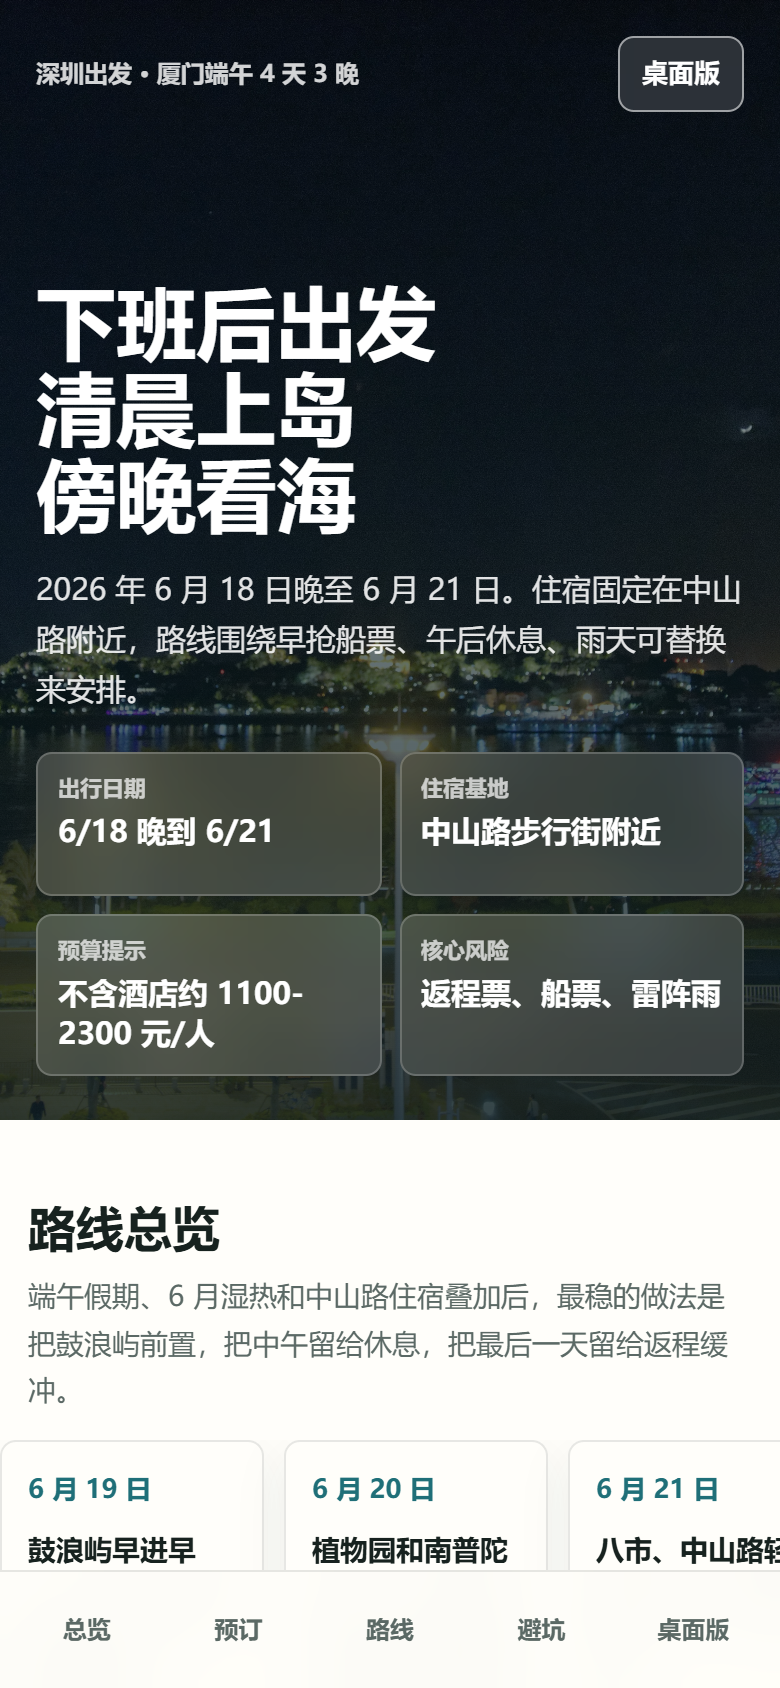
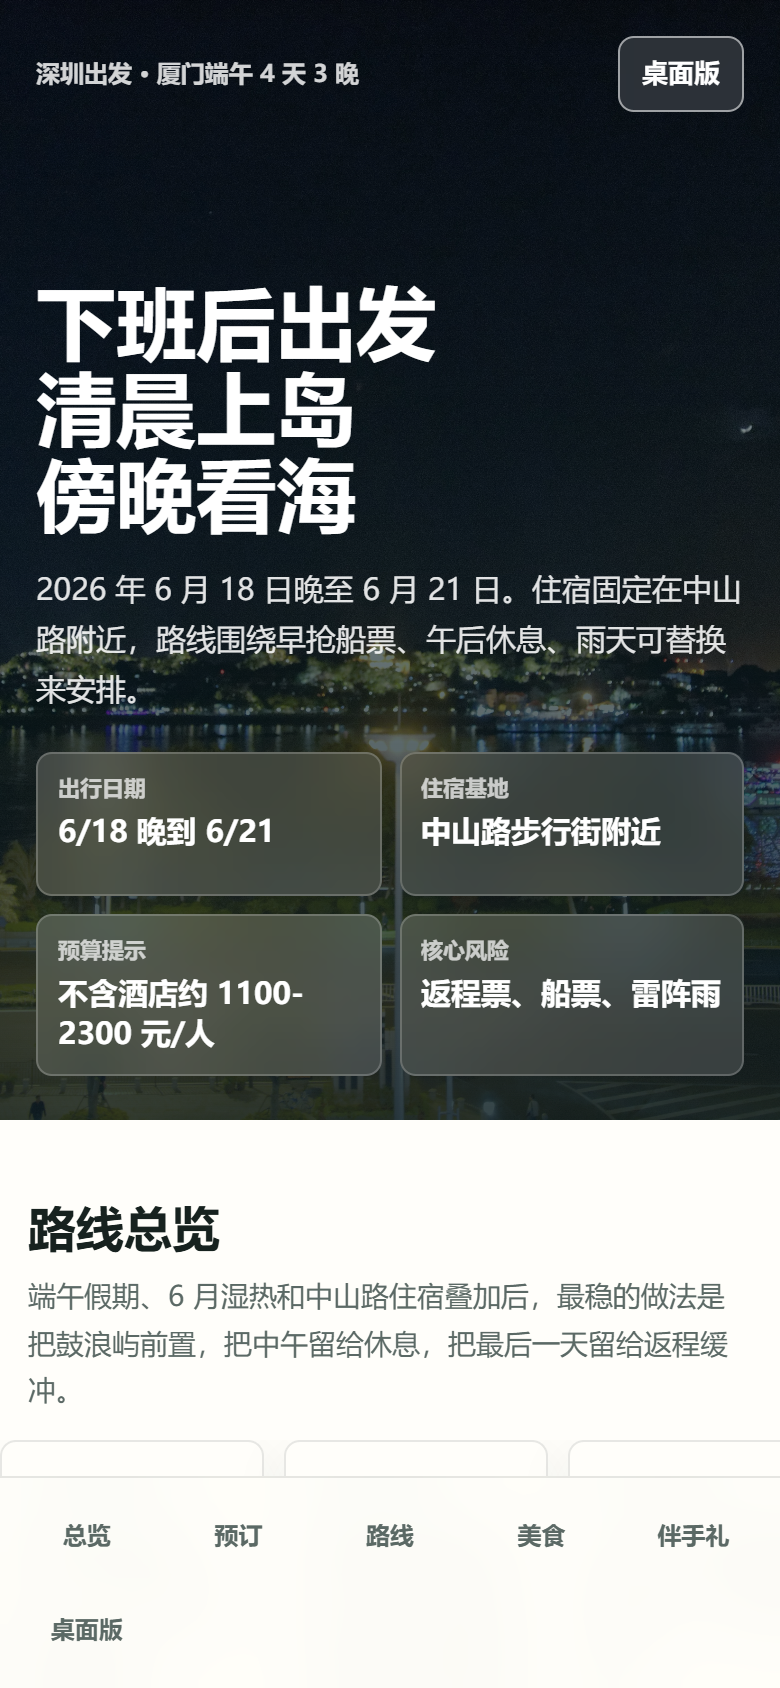
行程优化

diff --git a/xiamen/shenzhen-xiamen-itinerary-mobile.html b/xiamen/shenzhen-xiamen-itinerary-mobile.html
@@ -776,25 +776,66 @@
       </section>
 
       <section id="food">
-        <h2>美食和伴手礼</h2>
-        <p class="lead">策略是“吃品类，不迷信店名”。中山路、八市、沙坡尾、曾厝垵都要避开拉客海鲜、价格不透明和长队网红店。</p>
+        <h2>美食速查</h2>
+        <p class="lead">出门后按“想吃的品类”找店，不按网红店名排队。中山路和八市只进明码店，曾厝垵、沙坡尾只当小食和饮品补充。</p>
         <article class="card coral">
           <h3>每天怎么吃</h3>
           <ul>
-            <li>D1：车站简餐，抵达后不吃重口夜宵。</li>
-            <li>D2：鼓浪屿轻食，中山路或八市晚餐。</li>
-            <li>D3：植物园后吃沙茶面或本地小炒，曾厝垵只吃饮品小食，晚上回老城区。</li>
-            <li>D4：八市早餐，午饭选车站前不赶时间的店。</li>
+            <li>D1：车站简餐，抵达后只补水和轻食，不吃重口夜宵。</li>
+            <li>D2：鼓浪屿上午轻食，晚餐回中山路或八市吃正餐。</li>
+            <li>D3：植物园后吃沙茶面/本地小炒，曾厝垵只买饮品小食。</li>
+            <li>D4：八市早餐加伴手礼，午饭选车站前不赶时间的店。</li>
           </ul>
         </article>
         <article class="card gold">
-          <h3>值得尝试</h3>
-          <p>沙茶面、花生汤、海蛎煎、土笋冻、姜母鸭、同安封肉、五香卷、扁食汤、鼓浪屿馅饼、南普陀素饼。</p>
+          <h3>优先尝试</h3>
+          <ul>
+            <li><strong>主食热菜：</strong>沙茶面、姜母鸭、同安封肉、扁食汤。</li>
+            <li><strong>小吃甜口：</strong>花生汤、海蛎煎、五香卷、土笋冻。</li>
+            <li><strong>海鲜：</strong>想吃可以放八市/老城区晚餐，先确认单价、斤两和加工费。</li>
+          </ul>
+        </article>
+        <article class="card leaf">
+          <h3>现场判断</h3>
+          <ul>
+            <li>菜单没有价格、店员在门口拉客、只推荐“时价海鲜”的店直接跳过。</li>
+            <li>排队超过 20 分钟就换同品类，端午不把时间押给单店。</li>
+            <li>土笋冻、海蛎煎、姜母鸭口味分化大，先点小份或拼桌共享。</li>
+          </ul>
           <div class="tags">
             <span class="tag">明码点单</span>
             <span class="tag">排队超 20 分钟换店</span>
-            <span class="tag">伴手礼 D4 买</span>
+            <span class="tag">海鲜先确认斤两</span>
           </div>
+        </article>
+      </section>
+
+      <section id="gifts">
+        <h2>伴手礼和文创速查</h2>
+        <p class="lead">最后一天上午集中买，避免背着走鼓浪屿和植物园。食品看生产日期、保质期和配料表；文创优先轻、小、不易碎。</p>
+        <article class="card gold">
+          <h3>食品伴手礼</h3>
+          <ul>
+            <li><strong>稳妥分发：</strong>鼓浪屿馅饼、南普陀素饼、花生酥、海苔肉松类小包装。</li>
+            <li><strong>给长辈：</strong>素饼、传统糕点、小罐茶；少买大礼盒，先看重量。</li>
+            <li><strong>自己吃：</strong>馅饼可以买混合口味，但别一次买太多，甜度和油润度差异明显。</li>
+          </ul>
+        </article>
+        <article class="card plum">
+          <h3>文创和非遗</h3>
+          <ul>
+            <li><strong>轻便：</strong>鼓浪屿建筑冰箱贴、明信片、城市散步地图、植物园主题小物。</li>
+            <li><strong>有厦门辨识度：</strong>漆线雕、厦门珠绣相关小件，适合预算更高或送重要对象。</li>
+            <li><strong>购买原则：</strong>问清材质、工艺、是否易碎；贵价手作不在景区冲动下单。</li>
+          </ul>
+        </article>
+        <article class="card blue">
+          <h3>D4 购买路线</h3>
+          <ul>
+            <li>早上：八市/中山路附近先买食品，买完回酒店或寄存点放好。</li>
+            <li>中午前：补买轻文创和冰箱贴，留出 20% 行李空间。</li>
+            <li>返程前：只买能随身带的轻物，不买需冷藏、易漏、易碎的大件。</li>
+          </ul>
         </article>
       </section>
 
@@ -836,6 +877,7 @@
             <li>鼓浪屿 6 月 19 日早班船票已购买。</li>
             <li>酒店地址、电话、入住时间已截图。</li>
             <li>保存离线地图和酒店到厦门北路线。</li>
+            <li>D4 伴手礼清单已列好，行李箱预留 20% 空间。</li>
             <li>晴雨伞、防晒、帽子、速干衣物、备用袜子。</li>
             <li>充电宝、数据线、纸巾、湿巾、肠胃药、创可贴。</li>
             <li>每天早上看天气预警，雷雨就切换室内备选。</li>
@@ -854,6 +896,9 @@
             <li><a href="https://www.xmferry.com/wybm/wshlk/wlgpp/index.htm">厦门轮渡有限公司：游客购票须知</a></li>
             <li><a href="https://xiamenbg.com/Dp/time">厦门市园林植物园：开放时间</a></li>
             <li><a href="https://www.weather.com.cn/cityintro/101230201.shtml">中国天气网：厦门气候背景</a></li>
+            <li><a href="https://lzhbwg.mofcom.gov.cn/">商务部流通发展司：中华老字号信息管理</a></li>
+            <li><a href="https://www.ihchina.cn/Article/Index/detail?id=14363">中国非物质文化遗产网：厦门漆线雕技艺</a></li>
+            <li><a href="https://wlt.fujian.gov.cn/wldt/btdt/202409/P020250624350030178688.pdf">福建省文化和旅游厅：非遗与旅游融合发展推荐目录</a></li>
           </ul>
         </article>
         <article class="card coral">
@@ -863,8 +908,11 @@
             <li>厦门 6月 暴雨 雷阵雨 避坑</li>
             <li>厦门 曾厝垵 沙坡尾 避坑 美食</li>
             <li>厦门 中山路 八市 海鲜 避坑</li>
+            <li>厦门 美食 小吃 避坑 中山路 八市 沙茶面 土笋冻</li>
+            <li>厦门 伴手礼 特产 馅饼 素饼 避坑 礼物</li>
+            <li>厦门 文创 非遗 漆线雕 珠绣 鼓浪屿 礼物</li>
           </ul>
-          <p>复核结论支持早班鼓浪屿、上午植物园、曾厝垵短逛不吃正餐，以及中山路/八市明码点单、不进拉客店。</p>
+          <p>复核结论支持早班鼓浪屿、上午植物园、曾厝垵短逛不吃正餐；美食按品类找店，伴手礼 D4 集中买，食品看日期和配料，文创优先轻便小件。</p>
         </article>
         <article class="card gold">
           <h3>图片授权</h3>
@@ -887,7 +935,8 @@
       <a href="#overview">总览</a>
       <a href="#booking">预订</a>
       <a href="#daily">路线</a>
-      <a href="#pitfalls">避坑</a>
+      <a href="#food">美食</a>
+      <a href="#gifts">伴手礼</a>
       <a href="shenzhen-xiamen-itinerary.html">桌面版</a>
     </div>
   </nav>

diff --git a/xiamen/shenzhen-xiamen-itinerary.html b/xiamen/shenzhen-xiamen-itinerary.html
@@ -903,52 +903,55 @@
 
     <section id="food">
       <h2>美食安排</h2>
-      <p class="section-lead">小红书近期反馈里，中山路、八市、沙坡尾、曾厝垵的争议主要集中在拉客海鲜、价格不透明、网红店排队和期望过高。策略是“吃品类，不迷信店名”。</p>
+      <p class="section-lead">官方和文旅资料可确认厦门有沙茶面、土笋冻、花生汤、馅饼等代表性吃食；小红书近期反馈则提醒中山路、八市、沙坡尾、曾厝垵的争议主要集中在拉客海鲜、价格不透明、网红店排队和期望过高。策略是“吃品类，不迷信店名”。</p>
       <div class="grid cols-2">
         <article class="card accent-coral">
           <h3>每天怎么吃</h3>
           <ul>
-            <li>D1：车站简餐，抵达后不吃重口夜宵。</li>
-            <li>D2：鼓浪屿上午轻食，中山路/八市晚餐。</li>
-            <li>D3：植物园后吃沙茶面或本地小炒，曾厝垵只吃饮品小食，晚上回老城区正餐。</li>
-            <li>D4：八市早餐，午饭选车站前不赶时间的店。</li>
+            <li>D1：车站简餐，抵达后只补水和轻食，不吃重口夜宵。</li>
+            <li>D2：鼓浪屿上午轻食，晚餐回中山路或八市吃正餐。</li>
+            <li>D3：植物园后吃沙茶面或本地小炒，曾厝垵只买饮品小食，晚上回老城区正餐。</li>
+            <li>D4：八市早餐加伴手礼，午饭选车站前不赶时间的店。</li>
           </ul>
         </article>
         <article class="card accent-gold">
-          <h3>值得尝试的品类</h3>
+          <h3>优先尝试的品类</h3>
           <ul>
-            <li>沙茶面、花生汤、海蛎煎、土笋冻。</li>
-            <li>姜母鸭、同安封肉、五香卷、扁食汤。</li>
-            <li>鼓浪屿馅饼、南普陀素饼、黄则和类传统点心。</li>
-            <li>海鲜可以吃，但只选明码称重和评价稳定的店。</li>
+            <li><strong>主食热菜：</strong>沙茶面、姜母鸭、同安封肉、扁食汤。</li>
+            <li><strong>小吃甜口：</strong>花生汤、海蛎煎、五香卷、土笋冻。</li>
+            <li><strong>食品伴手礼：</strong>鼓浪屿馅饼、南普陀素饼、花生酥、海苔肉松类小包装。</li>
+            <li><strong>海鲜：</strong>可以吃，但只选明码称重和评价稳定的店。</li>
           </ul>
         </article>
       </div>
       <div class="note" style="margin-top:16px;">
-        点餐底线：不吃路边拉客海鲜，不点没有标价的“时价”菜，称重前确认单位和做法，网红店排队超过 20 分钟就换同品类替代。
+        点餐底线：不吃路边拉客海鲜，不点没有标价的“时价”菜，称重前确认单位、斤两、加工费和做法；土笋冻、海蛎煎、姜母鸭口味分化大，先点小份或拼桌共享；网红店排队超过 20 分钟就换同品类替代。
       </div>
     </section>
 
     <section id="gifts">
       <h2>伴手礼和文创</h2>
-      <p class="section-lead">最后一天上午买最合适，避免背着走鼓浪屿和植物园。食品类优先小包装，文创类优先轻、不易碎、能代表厦门海岛和骑楼元素。</p>
+      <p class="section-lead">最后一天上午买最合适，避免背着走鼓浪屿和植物园。食品类看生产日期、保质期和配料表；文创类优先轻、小、不易碎，能代表厦门海岛、骑楼或非遗元素。</p>
       <div class="grid cols-4">
         <article class="card accent-gold">
           <h3>食品类</h3>
-          <p>馅饼、素饼、花生酥、海苔肉松类。适合办公室分发，注意保质期和包装体积。</p>
+          <p>鼓浪屿馅饼、南普陀素饼、花生酥、海苔肉松类。适合办公室分发，优先小包装，买前看生产日期、保质期和包装体积。</p>
         </article>
         <article class="card accent-sea">
           <h3>茶和饮品</h3>
-          <p>福建茶叶可买小罐装试饮款，不建议在景区高价冲动购买大礼盒。</p>
+          <p>福建茶叶可买小罐装试饮款，适合给长辈或自己喝。不建议在景区高价冲动购买大礼盒。</p>
         </article>
         <article class="card accent-plum">
-          <h3>文创类</h3>
-          <p>鼓浪屿建筑明信片、冰箱贴、城市散步地图、植物园主题小物。轻便比大件更实用。</p>
+          <h3>文创和非遗</h3>
+          <p>鼓浪屿建筑冰箱贴、明信片、城市散步地图、植物园主题小物，以及漆线雕、厦门珠绣相关小件。贵价手作问清材质和工艺，不在景区冲动下单。</p>
         </article>
         <article class="card accent-leaf">
-          <h3>购买位置</h3>
-          <p>中山路、八市周边、鼓浪屿核心街区都能买。建议 D4 统一采购，买前比价。</p>
+          <h3>D4 购买路线</h3>
+          <p>早上在八市/中山路附近买食品，回酒店或寄存点放好；中午前补轻文创，返程前只买能随身带的轻物。</p>
         </article>
+      </div>
+      <div class="note" style="margin-top:16px;">
+        伴手礼底线：行李箱预留 20% 空间；不买需冷藏、易漏、易碎的大件；食品不要只看网红包装，先看日期、配料和重量。
       </div>
     </section>
 
@@ -1006,7 +1009,7 @@
           <li>充电宝、数据线、纸巾、湿巾、肠胃药、创可贴。</li>
           <li>轻便双肩包，鼓浪屿当天不要拖箱。</li>
           <li>每天早上看天气预警，雷雨就切换室内备选。</li>
-          <li>伴手礼最后一天买，给行李留 20% 空间。</li>
+          <li>D4 伴手礼清单已列好，给行李留 20% 空间。</li>
         </ul>
       </div>
     </section>
@@ -1026,6 +1029,9 @@
             <li><a href="https://xiamenbg.com/Dp/time">厦门市园林植物园：开放时间</a></li>
             <li><a href="https://www.xiamenbg.com/Dp/gpzn">厦门市园林植物园：购票指南</a></li>
             <li><a href="https://www.weather.com.cn/cityintro/101230201.shtml">中国天气网：厦门气候背景分析</a></li>
+            <li><a href="https://lzhbwg.mofcom.gov.cn/">商务部流通发展司：中华老字号信息管理</a></li>
+            <li><a href="https://www.ihchina.cn/Article/Index/detail?id=14363">中国非物质文化遗产网：厦门漆线雕技艺</a></li>
+            <li><a href="https://wlt.fujian.gov.cn/wldt/btdt/202409/P020250624350030178688.pdf">福建省文化和旅游厅：非遗与旅游融合发展推荐目录</a></li>
           </ul>
         </article>
         <article class="card accent-coral source-list">
@@ -1035,8 +1041,11 @@
             <li>厦门 6月 暴雨 雷阵雨 避坑</li>
             <li>厦门 曾厝垵 沙坡尾 避坑 美食</li>
             <li>厦门 中山路 八市 海鲜 避坑</li>
+            <li>厦门 美食 小吃 避坑 中山路 八市 沙茶面 土笋冻</li>
+            <li>厦门 伴手礼 特产 馅饼 素饼 避坑 礼物</li>
+            <li>厦门 文创 非遗 漆线雕 珠绣 鼓浪屿 礼物</li>
           </ul>
-          <p>使用方式：提炼近期游客对人流、排队、拍照时段、雨天体验、餐饮消费争议的反馈。复核结论支持当前路线：鼓浪屿早进早出；植物园放上午并对齐雾森时段；曾厝垵只短逛不吃正餐；中山路和八市坚持明码点单、不进拉客店。</p>
+          <p>使用方式：提炼近期游客对人流、排队、拍照时段、雨天体验、餐饮消费争议的反馈。复核结论支持当前路线：鼓浪屿早进早出；植物园放上午并对齐雾森时段；曾厝垵只短逛不吃正餐；美食按品类找店，伴手礼 D4 集中买，食品看日期和配料，文创优先轻便小件。</p>
         </article>
         <article class="card accent-gold source-list">
           <h3>图片授权</h3>